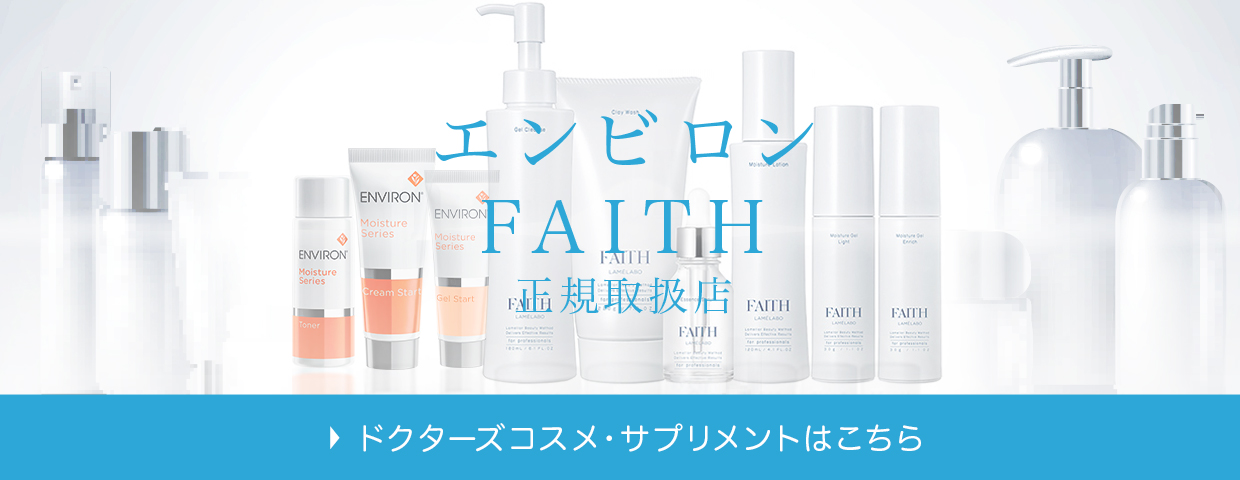
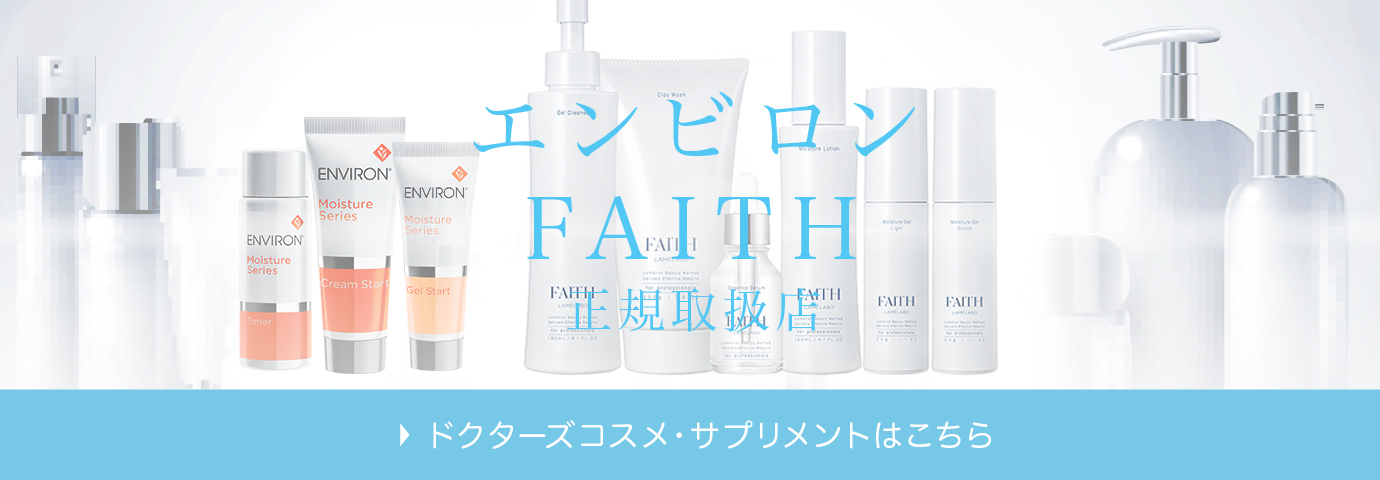
ドクターズコスメページ修正

diff --git a/css/style.css b/css/style.css
@@ -414,6 +414,10 @@ body.page {
   text-align: left !important;
 }
 
+.tr {
+  text-align: right;
+}
+
 .tc {
   text-align: center;
 }
@@ -1910,7 +1914,7 @@ footer.pages.list-footer .copy {
   margin-bottom: 70px;
 }
 .cosmetics__bnr .inner .bnr {
-  width: 55.4%;
+  width: 70%;
   margin: 40px auto;
 }
 
@@ -2864,6 +2868,20 @@ footer.pages.list-footer .copy {
   height: auto;
 }
 
+/* パターン02 */
+.kind-p02 .wrap .inner-box2 .box {
+  padding: 40px 0;
+  -webkit-box-align: center;
+      -ms-flex-align: center;
+          align-items: center;
+}
+.kind-p02 .wrap .inner-box2 .box .desc h3 {
+  margin-bottom: 15px;
+}
+.kind-p02 .wrap .inner-box2 .box .thumb {
+  width: 26%;
+}
+
 /*症例*/
 .case .inner h2 {
   margin-bottom: 50px;
@@ -3235,6 +3253,20 @@ footer.pages.list-footer .copy {
     -webkit-box-direction: reverse;
         -ms-flex-flow: column-reverse;
             flex-flow: column-reverse;
+  }
+
+  .kind-p02 .wrap .inner-box2 .box {
+    padding: 25px 0;
+  }
+  .kind-p02 .wrap .inner-box2 .box .desc {
+    text-align: center !important;
+  }
+  .kind-p02 .wrap .inner-box2 .box .desc h3 {
+    margin-bottom: 15px;
+  }
+  .kind-p02 .wrap .inner-box2 .box .thumb {
+    width: 62%;
+    margin: 0 auto 25px !important;
   }
 
   /*症例*/

diff --git a/css/scss/page/_operation.scss b/css/scss/page/_operation.scss
@@ -374,6 +374,29 @@
     }
 }
 
+/* パターン02 */
+
+.kind-p02 {
+    .wrap {
+        .inner-box2 {
+            .box {
+                padding: 40px 0;
+                align-items: center;
+
+                .desc {
+                    h3 {
+                        margin-bottom: 15px;
+                    }
+                }
+
+                .thumb {
+                    width: 26%;
+                }
+            }
+        }
+    }
+}
+
 /*症例*/
 
 .case {
@@ -858,6 +881,29 @@
             .inner-box2 {
                 .box {
                     flex-flow: column-reverse;
+                }
+            }
+        }
+    }
+
+    .kind-p02 {
+        .wrap {
+            .inner-box2 {
+                .box {
+                    padding: 25px 0;
+
+                    .desc {
+                        text-align: center !important;
+
+                        h3 {
+                            margin-bottom: 15px;
+                        }
+                    }
+
+                    .thumb {
+                        width: 62%;
+                        margin: 0 auto 25px !important;
+                    }
                 }
             }
         }

diff --git a/css/scss/page/_top.scss b/css/scss/page/_top.scss
@@ -658,7 +658,7 @@
         margin-bottom: 70px;
 
         .bnr {
-            width: 55.4%;
+            width: 70%;
             margin: 40px auto;
         }
     }

diff --git a/css/scss/base/_base.scss b/css/scss/base/_base.scss
@@ -467,6 +467,10 @@ body.page {
     text-align: left !important;
 }
 
+.tr {
+    text-align: right;
+}
+
 .tc {
     text-align: center;
 }

diff --git a/page-cosmetics.php b/page-cosmetics.php
@@ -8,7 +8,13 @@ Template Name: ドクターズコスメ・サプリメント
 <div class="page-head">
   <h1 class="tc f-ryu">ドクターズコスメ・サプリメント</h1>
   <?php echo breadcrumb_func(); ?> </div>
-<div class="ancor-box gosic mb60"> <a href="#area1">エンビロン</a><a href="#area2">FAITHラメラボ</a><a href="#area3">幹細胞</a> </div>
+<div class="ancor-box gosic mb60">
+      <a href="#area1">エンビロン</a>
+      <a href="#area2">FAITHラメラボ</a>
+      <a href="#area3">幹細胞</a>
+        <a href="#area4">ドクターズサプリメント</a>
+          <a href="#area5">まつげ育毛薬</a>
+</div>
 <section class="ope-intro bg-cp" id="area1">
   <div class="inner flex al-cent">
     <div class="thumb-sq"> <img src="<?php echo get_template_directory_uri(); ?>/img/cosmetics/thumb02.jpg" alt="サムネイル"> </div>
@@ -117,17 +123,6 @@ Template Name: ドクターズコスメ・サプリメント
 </section>
 <section class="price">
   <div class="inner-box2">
-
-    <div class="desc-box desc-box02 box-size gosic">
-        <p class="gd">【生幹細胞ハリ艶UPコース】</p>
-        <p class="txt">純度100％の人由来のフリーズドライ幹細胞をヒトプラセンタを導入直前に調合！超音波で高濃度の幹細胞美容成分をしっかり肌の奥へ浸透させます。さらに高濃度ヒト幹細胞&プラセンタ、ヒアルロン酸の130％蓄水力といわれているプロテオグリカン配合の高密着・高浸透マスクをしながらイオン導入で美容成分をしっかり浸透させます。</p>
-    </div>
-
-     <div class="desc-box desc-box02 box-size gosic">
-        <p class="gd">【幹細胞パック導入コース】</p>
-        <p class="txt">高濃度ヒト幹細胞&プラセンタ、ヒアルロン酸の130％蓄水力といわれているプロテオグリカン配合の高密着・高浸透マスクをしながらイオン導入で美容成分をしっかり浸透させます。</p>
-    </div>
-
     <h2 class="tc ls1">料金表</h2>
     <div class="price-list gosic">
       <dl class="flex">
@@ -169,28 +164,95 @@ Template Name: ドクターズコスメ・サプリメント
 */
   </style>
 
-<div class="inner-box2">
-  <!--  <h2 class="tc ls1">料金表</h2> -->
+</section>
+
+<section class="ope-intro bg-cp" id="area4">
+  <div class="inner flex ff-row-reverse al-cent">
+    <div class="thumb-sq"> <img src="<?php echo get_template_directory_uri(); ?>/img/cosmetics/thumb09.jpg" alt="サムネイル"> </div>
+    <div class="text box-size">
+      <h2>ドクターズサプリメント</h2>
+      <p class="ls1 gosic">いつまでも若く健康に!!<br class="pc">ドクターズサプリメント(Doctors Supplements )とは、医師が、推奨するサプリメントで不必要な添加物を使用していない、医療機関向けの品質が保証された医療機関専門のサプリメントです。当院では安全品質で、信頼のおけるメーカーによる厳選された、素材で製造されたサプリメントをご紹介しています。
+      </p>
+    </div><!-- ./text -->
+  </div><!-- ./inner -->
+</section>
+<div class="ope-kind kind-p02 mb35">
+  <h2 class="tc">サプリメントの種類</h2>
+    <div class="wrap mb20 bg-cg2">
+      <div class="inner-box2">
+        <div class="box flex">
+            <div class="desc">
+              <h3 class="ls1">ソルプロリュクスホワイト</h3>
+              <p class="gosic text120 ls1 fw600">飲む日焼け止め</p>
+            </div><!-- ./desc -->
+            <div class="thumb">
+              <img src="<?php echo get_template_directory_uri(); ?>/img/cosmetics/thumb06.jpg" alt="サムネイル">
+            </div><!-- ./thumb -->
+        </div><!-- ./box -->
+      </div><!-- ./inner-box2 -->
+    </div><!-- ./wrap -->
+      <div class="wrap">
+      <div class="inner-box2">
+        <div class="box flex tr">
+            <div class="thumb">
+              <img src="<?php echo get_template_directory_uri(); ?>/img/cosmetics/thumb05.jpg" alt="サムネイル">
+            </div><!-- ./thumb -->
+            <div class="desc">
+              <h3 class="ls1">Corrｍ(コルム)</h3>
+              <p class="gosic text120 ls1 fw600">肌の弾力UP&痩せ体質に導く</p>
+            </div><!-- ./desc -->
+        </div><!-- ./box -->
+      </div><!-- ./inner-box2 -->
+    </div><!-- ./wrap -->
+      <div class="wrap mb20 bg-cg2">
+      <div class="inner-box2">
+        <div class="box flex">
+            <div class="desc">
+              <h3 class="ls1">アルベックス</h3>
+              <p class="gosic text120 ls1 fw600">美肌と健康は腸活から！</p>
+            </div><!-- ./desc -->
+            <div class="thumb">
+              <img src="<?php echo get_template_directory_uri(); ?>/img/cosmetics/thumb07.jpg" alt="サムネイル">
+            </div><!-- ./thumb -->
+        </div><!-- ./box -->
+      </div><!-- ./inner-box2 -->
+    </div><!-- ./wrap -->
+</div><!-- ./ope-lind -->
+<section class="price">
+  <div class="inner-box2">
+   <h2 class="tc ls1">料金表</h2>
     <div class="price-list gosic">
       <dl class="flex">
         <dt>ドクターズサプリメント</dt>
         <dd class="f-bold">税別</dd>
       </dl>
       <dl class="flex">
-        <dt><span class="fw600">飲む日焼け止め</span>  ソリプロホワイト　30カプセル </dt>
+        <dt>ソルプロリュクスホワイト　30カプセル </dt>
         <dd>¥5,000</dd>
       </dl>
        <dl class="flex">
-        <dt><span class="fw600">肌の弾力UP&痩せ体質に導く</span>  Corrｍ(コルム)　30包</dt>
+        <dt>Corrｍ(コルム)　30包</dt>
         <dd>¥12,000</dd>
       </dl>
        <dl class="flex">
-        <dt><span class="fw600">美肌と健康は腸活から！</span>  アルベックス　30包</dt>
+        <dt>アルベックス　30包</dt>
         <dd>￥8,000</dd>
       </dl>
     </div><!-- price-list END -->
   </div><!-- inner-box2 END -->
-<div class="ope-kind mb35">
+</section>
+
+<section class="ope-intro bg-cp" id="area5">
+  <div class="inner flex al-cent">
+    <div class="thumb-sq"> <img src="<?php echo get_template_directory_uri(); ?>/img/cosmetics/thumb08.jpg" alt="サムネイル"> </div>
+    <div class="text box-size">
+      <h2>まつげ育毛薬</h2>
+      <p class="ls1 gosic">細く短いまつ毛を長く濃いまつげへ!! <br class="pc">当院では、厚生労働省から認可された医療用まつ毛育毛剤『グラッシュビスタ®』を使用します。※グラッシュビスタは、ラティースとして販売されていた薬剤が、名称新たに生まれ変わった商品です。</p>
+    </div>
+  </div>
+</section>
+<div class="ope-kind kind-p02 mb35">
+  <h2 class="tc">育毛薬の種類</h2>
     <div class="wrap bg-cg2">
       <div class="inner-box2">
         <div class="box flex">
@@ -205,9 +267,10 @@ Template Name: ドクターズコスメ・サプリメント
       </div><!-- ./inner-box2 -->
     </div><!-- ./wrap -->
 </div><!-- ./ope-lind -->
-<div class="inner-box2">
-   <h2 class="tc ls1">料金表</h2>
-  <div class="price-list gosic">
+<section class="price">
+  <div class="inner-box2">
+    <h2 class="tc ls1">料金表</h2>
+   <div class="price-list gosic">
       <dl class="flex">
         <dt>まつげ育毛薬</dt>
         <dd class="f-bold">税別</dd>
@@ -217,6 +280,6 @@ Template Name: ドクターズコスメ・サプリメント
         <dd>¥15,000</dd>
       </dl>
     </div><!-- price-list END -->
-</div><!-- ./inner -->
+  </div><!-- inner-box END -->
 </section>
 <?php get_footer();?>

diff --git a/page-medikaru.php b/page-medikaru.php
@@ -145,7 +145,7 @@ Template Name: メディカルエステ
         <dt>生幹細胞ハリ艶UPコース</dt>
         <dd>¥30,000(税別)</dd>
       </dl>
-      <div class="desc-box box-size gosic">
+      <div class="desc-box box-size gosic"><p class="txt">純度100％のヒト由来の幹細胞とヒトプラセンタを超音波でしっかり肌の奥へ浸透させます。さらに高濃度ヒト幹細胞&プラセンタ、ヒアルロン酸の130％蓄水力といわれているプロテオグリカン配合の高密着・高浸透マスクをしながらイオン導入で美容成分をしっかり浸透させます。</p>
         <p class="gd">❶クレンジング  ❷トーニングorシリコンオフトリートメント  ❸生幹細胞＋ヒトプラセンタ超音波導入  ❹幹細胞パック導入</p>
       </div>
     </div>
@@ -154,7 +154,7 @@ Template Name: メディカルエステ
         <dt>幹細胞パック導入コース</dt>
         <dd>¥10,000(税別)</dd>
       </dl>
-      <div class="desc-box box-size gosic">
+      <div class="desc-box box-size gosic"><p class="txt">高濃度ヒト幹細胞&プラセンタ、ヒアルロン酸の130％蓄水力といわれているプロテオグリカン配合の高密着・高浸透マスクをしながらイオン導入で美容成分をしっかり浸透させます。</p>
         <p class="gd">❶クレンジング  ❷トーニングorシリコンオフトリートメント  ❸幹細胞パック導入</p>
       </div>
     </div>
@@ -186,7 +186,7 @@ Template Name: メディカルエステ
   <div class="inner-box2 mb0">
     <div class="price-list gosic">
       <dl class="flex">
-        <dt>コラーゲンピーリング(PRX-T33)</dt>
+        <dt>マッサージピール(コラーゲンピール)(PRX-T33)</dt>
         <dd class="f-bold">税別</dd>
       </dl>
       <dl class="flex">

diff --git a/index.php b/index.php
@@ -7,7 +7,7 @@
 <meta name="format-detection" content="telephone=no">
 <link rel="stylesheet" href="https://cdnjs.cloudflare.com/ajax/libs/Swiper/3.4.1/css/swiper.min.css">
 <link rel="stylesheet" href="<?php echo get_template_directory_uri(); ?>/css/common.css">
-<link rel="stylesheet" href="<?php echo get_template_directory_uri(); ?>/css/style.css?1215">
+<link rel="stylesheet" href="<?php echo get_template_directory_uri(); ?>/css/style.css?1217">
 <script>
   (function(d) {
     var config = {
@@ -284,7 +284,7 @@
 <div class="cosmetics__bnr">
   <div class="inner">
     <div class="bnr">
-    <a href="<?php echo home_url('/');?>cosmetics" target="_blank"><img src="<?php echo get_template_directory_uri(); ?>/img/common/cosmetics_bnr02.jpg" alt="ドクターズサプリメントのバナー"></a>
+    <a href="<?php echo home_url('/');?>cosmetics" target="_blank"><img src="<?php echo get_template_directory_uri(); ?>/img/common/cosmetics_bnr02.jpg?1203" alt="ドクターズサプリメントのバナー"></a>
     </div>
   </div>
 

diff --git a/header-2.php b/header-2.php
@@ -7,7 +7,7 @@
 <meta name="format-detection" content="telephone=no">
 <link rel="stylesheet" href="https://cdnjs.cloudflare.com/ajax/libs/Swiper/3.4.1/css/swiper.min.css">
 <link rel="stylesheet" href="<?php echo get_template_directory_uri(); ?>/css/common.css">
-<link rel="stylesheet" href="<?php echo get_template_directory_uri(); ?>/css/style.css?1226">
+<link rel="stylesheet" href="<?php echo get_template_directory_uri(); ?>/css/style.css?1227">
     <script>
   (function(d) {
     var config = {

diff --git a/header.php b/header.php
@@ -7,7 +7,7 @@
 <meta name="format-detection" content="telephone=no">
 <link rel="stylesheet" href="https://cdnjs.cloudflare.com/ajax/libs/Swiper/3.4.1/css/swiper.min.css">
 <link rel="stylesheet" href="<?php echo get_template_directory_uri(); ?>/css/common.css">
-<link rel="stylesheet" href="<?php echo get_template_directory_uri(); ?>/css/style.css?1216">
+<link rel="stylesheet" href="<?php echo get_template_directory_uri(); ?>/css/style.css?1217">
     <script>
   (function(d) {
     var config = {
